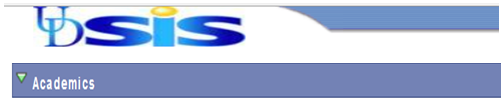
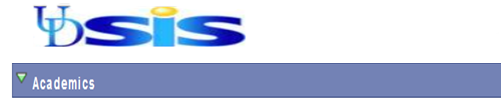
edits to UDSIS UI

diff --git a/src/main/core/src/edu/udel/cisc275_15S/advisementadventure/UDSIS_Screen.java b/src/main/core/src/edu/udel/cisc275_15S/advisementadventure/UDSIS_Screen.java
@@ -22,6 +22,9 @@ public class UDSIS_Screen extends ScreenAdapter {
 	Image btnBack;
 	
 	Texture udBanner;
+	Texture academicsHeader;
+	Texture academicsBar;
+	Texture advisorBox;
 	
 	Texture ClassSch;
 	Image btnClassSch;
@@ -31,6 +34,9 @@ public class UDSIS_Screen extends ScreenAdapter {
 	
 	Texture major;
 	Image btnMajor;
+	
+	Texture audit;
+	Image btnAudit;
 	
 	BitmapFont font;
 	Stage s;
@@ -51,7 +57,10 @@ public class UDSIS_Screen extends ScreenAdapter {
 		
 		s = new Stage();
 		
-		udBanner = new Texture("UDsisBanner.png");
+		udBanner = new Texture("udSisLogo.png");
+		academicsHeader = new Texture("academics-header.png");
+		academicsBar = new Texture("academics-bar.png");
+		advisorBox = new Texture("advisor-box.png");
 		
 		back = new Texture("btn_back.png");
 		btnBack = new Image(back);
@@ -66,7 +75,7 @@ public class UDSIS_Screen extends ScreenAdapter {
 		s.addActor(btnBack);
 		
 		
-		ClassSch = new Texture("classSchButton.png");
+		ClassSch = new Texture("schedule-btn.png");
 		btnClassSch = new Image(ClassSch);
 		btnClassSch.addListener(new ClickListener(){
 			public boolean touchDown(InputEvent e, float x, float y, int pointer, int button){
@@ -74,11 +83,11 @@ public class UDSIS_Screen extends ScreenAdapter {
 				return true;
 			}
 		});
-		btnClassSch.setBounds(width/3.2f, height/1.8f,  width/3.2f, height/5.5f);
+		btnClassSch.setBounds(10, height - (udBanner.getHeight()+academicsBar.getHeight()+50),  btnClassSch.getWidth(), btnClassSch.getHeight());
 		s.addActor(btnClassSch);
 		     
 		
-		addDrop = new Texture("RegistrationDropAddButton.png");
+		addDrop = new Texture("reg-btn.png");
 		btnAddDrop = new Image(addDrop);
 		btnAddDrop.addListener(new ClickListener(){
 			public boolean touchDown(InputEvent e, float x, float y, int pointer, int button){
@@ -86,11 +95,11 @@ public class UDSIS_Screen extends ScreenAdapter {
 				return true;
 			}
 		});
-		btnAddDrop.setBounds(width/3.2f, height/1.8f - btnClassSch.getHeight(),  width/2.2f, height/5.5f);
+		btnAddDrop.setBounds(10, height - (udBanner.getHeight()+academicsBar.getHeight()+50) - btnClassSch.getHeight(),  btnAddDrop.getWidth(), btnAddDrop.getHeight());
 		s.addActor(btnAddDrop);
 		
 		
-		major = new Texture("declareMajorButton.png");
+		major = new Texture("decmajor-btn.png");
 		btnMajor = new Image(major);
 		btnMajor.addListener(new ClickListener(){
 			public boolean touchDown(InputEvent e, float x, float y, int pointer, int button){
@@ -98,9 +107,19 @@ public class UDSIS_Screen extends ScreenAdapter {
 				return true;
 			}
 		});
-		btnMajor.setBounds(width/3.2f, height/1.8f - btnClassSch.getHeight() - btnAddDrop.getHeight(),  width/3f, height/5.5f);
+		btnMajor.setBounds(10, height - (udBanner.getHeight()+academicsBar.getHeight()+50) - btnClassSch.getHeight() - btnAddDrop.getHeight(),  btnMajor.getWidth(), btnMajor.getHeight());
 		s.addActor(btnMajor);
 		
+		audit = new Texture("audit-btn.png");
+		btnAudit = new Image(audit);
+		btnAudit.addListener(new ClickListener(){
+			public boolean touchDown(InputEvent e, float x, float y, int pointer, int button){
+				// game.setScreen(game.audit);
+				return true;
+			}
+		});
+		btnAudit.setBounds(10, height - (udBanner.getHeight()+academicsBar.getHeight()+50) - btnClassSch.getHeight() - btnAddDrop.getHeight() - btnMajor.getHeight(),  btnAudit.getWidth(), btnAudit.getHeight());
+		s.addActor(btnAudit);
 		
 		Gdx.input.setInputProcessor(s);
 	}
@@ -111,7 +130,10 @@ public class UDSIS_Screen extends ScreenAdapter {
 		gl.glClearColor(1, 1, 1, 1);
 		gl.glClear(GL20.GL_COLOR_BUFFER_BIT);
 		batch.begin();
-		batch.draw(udBanner, 0, height-height/5.5f, width, height/5.5f);
+		batch.draw(udBanner, btnBack.getWidth() + 15, height-height/9.5f);
+		batch.draw(academicsHeader, 0, height-height/5.5f);
+		batch.draw(academicsBar, academicsHeader.getWidth(), height-height/5.5f, width, academicsBar.getHeight());
+		batch.draw(advisorBox, width/1.90f, height-height/1.75f);
 		batch.end();
 		s.act();
 		s.draw();
